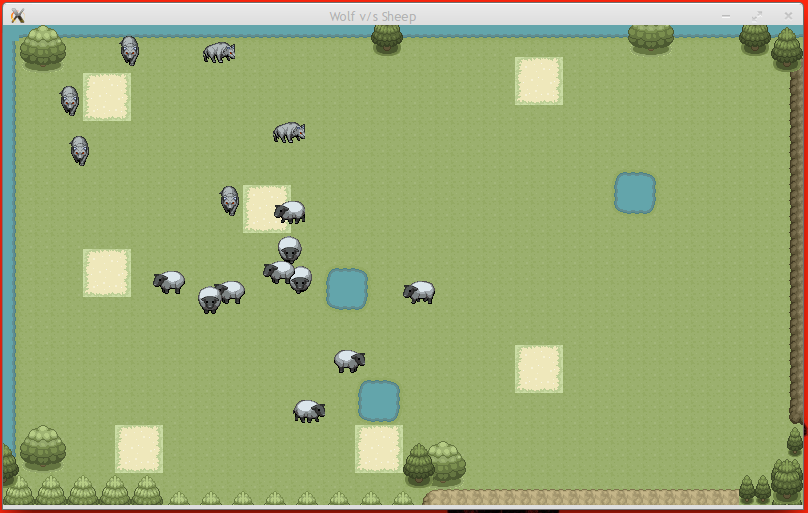
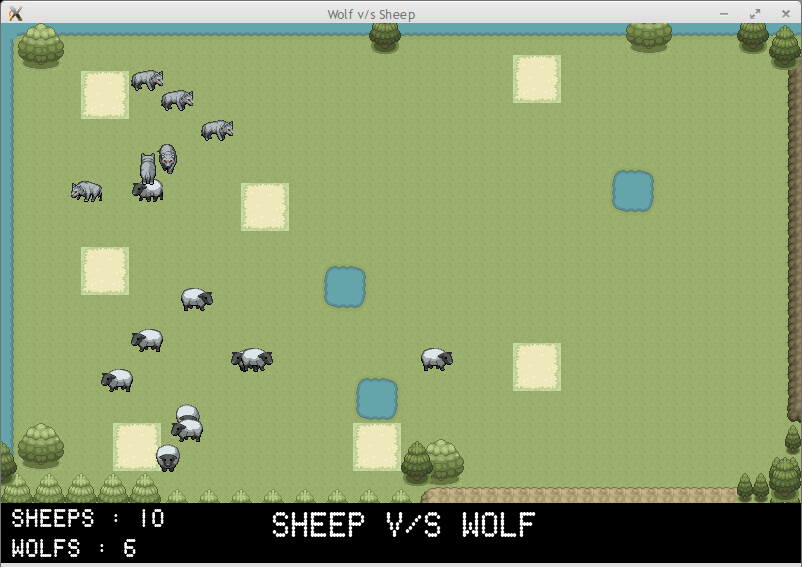
check collision for wolf, and game pause added

diff --git a/src/main.cpp b/src/main.cpp
@@ -8,6 +8,7 @@
 #include "wolf.cpp"
 #include "map.cpp"
 #include "utils.hpp"
+
 int main()
 {
     srand ( time(NULL) );
@@ -23,7 +24,7 @@ int main()
     Sheep *sheep = new Sheep[NUM_SHEEP]; /* num_sheep are in config.hpp*/
     Wolf *wolf = new Wolf[NUM_WOLF]; /* num_wolf are in config.hpp*/
     Utils *utils;
-    //bool game_pause = false;
+    bool game_pause = false;
 
     sf::Font font;
     if (!font.loadFromFile("../fonts/scoreboard.ttf"))
@@ -67,7 +68,8 @@ int main()
                         }
                         if(Event.key.code == sf::Keyboard::Space)
                         {
-                            //game_pause = true;  
+                            /* if(game_pause==true){ game_pause=false; }else { game_pause=true }    */
+                            game_pause = (game_pause) ? false : true;
                             break; 
                         }
                 default:
@@ -75,39 +77,46 @@ int main()
             } /* switch(Event.type) */
         } /* while(Window.pollEvent(Event)) */
 
-        Window.clear();            
-        Window.draw( map->getBackground() ); /* draw background */
+        if(!game_pause)
+        {
+            Window.clear();            
+            Window.draw( map->getBackground() ); /* draw background */
         
-        live_sheeps = 0;  
-        live_wolfs = 0;
-        for (int i=0; i<NUM_SHEEP; ++i){
-            mov=rand()%4; 
-            sheep[i].move( mov ); /* create a random number for movement of sheeps */
-            sheep[i].check_collisions( tilesize, mov , map); 
-            
-            if(sheep[i].getLife())  
-                live_sheeps++;   /* counter of sheeps */
+            live_sheeps = 0;  
+            live_wolfs = 0;
+            for (int i=0; i<NUM_SHEEP; ++i){
+                mov=rand()%4; 
+                sheep[i].move( mov ); /* create a random number for movement of sheeps */
+                sheep[i].check_collisions( tilesize, mov , map ); 
+                
+                if(sheep[i].getLife())  
+                    live_sheeps++;   /* counter of sheeps */
 
-            Window.draw( sheep[i].getSprite() ); /* draw sheeps */
-        }
+                Window.draw( sheep[i].getSprite() ); /* draw sheeps */
+            }
 
-        for (int i=0; i<NUM_WOLF; ++i){
-            wolf[i].move( rand()%4 ); /* create a random number for movement of wolfs */
-            wolf[i].check_collisions(); 
+            for (int i=0; i<NUM_WOLF; ++i){
+                mov=rand()%4;
+                wolf[i].move( mov ); /* create a random number for movement of wolfs */
+                wolf[i].check_collisions( tilesize, mov , map ); 
 
-            if(wolf[i].getLife())  
-                live_wolfs++;   /* counter of wolfs */
+                if(wolf[i].getLife())  
+                    live_wolfs++;   /* counter of wolfs */
 
-            Window.draw( wolf[i].getSprite() ); /* draw wolfs */
-        }
+                Window.draw( wolf[i].getSprite() ); /* draw wolfs */
+            }
 
-        textWolfs.setString("Wolfs : "+ utils->int2Str(live_wolfs) );
-        textSheeps.setString("Sheeps : "+ utils->int2Str(live_sheeps) ); 
-
-        Window.draw(textTitle);
-        Window.draw(textSheeps);
-        Window.draw(textWolfs);
+            textWolfs.setString("Wolfs : "+ utils->int2Str(live_wolfs) );
+            textSheeps.setString("Sheeps : "+ utils->int2Str(live_sheeps) ); 
+           
+            Window.draw(textTitle);
+            Window.draw(textSheeps);
+            Window.draw(textWolfs);
+        
+        } /* if(!game_pause)  */
+        
         Window.display();
         
     } /* game loop */
+        
 } /* main */

diff --git a/src/wolf.cpp b/src/wolf.cpp
@@ -11,7 +11,6 @@ Wolf::Wolf()
     this->life = true;
     this->source.x=4;
     this->source.y=1;
-
 }
 
 Wolf::~Wolf()
@@ -20,10 +19,17 @@ Wolf::~Wolf()
     //delete sprite;
 }
 
-sf::Sprite Wolf::getSprite() {
+sf::Sprite Wolf::getSprite() 
+{
     return this->sprite;
 }
 
+sf::Vector2i Wolf::getPosition()
+{
+	this->position.x = this->sprite.getPosition().x;
+	this->position.y = this->sprite.getPosition().y;
+	return this->position;
+}
 
 void Wolf::move ( int mov ){
 	const int texture_size_x = texture.getSize().x; /*  image.x / 2 => contains sheeps and wolf*/
@@ -50,24 +56,56 @@ void Wolf::move ( int mov ){
         this->sprite.move(0,-10);
 		break;
 	}
+	hunger-=4;
 }
 
 
-void Wolf::check_collisions(){
-	int pos_x = this->sprite.getPosition().x;
-	int pos_y = this->sprite.getPosition().y;
-	
-	if ( pos_x < 0.0f ) {	/* left position of screen */
- 		this->sprite.move(10,0); /* move right */	 
-	}
-	else if ( pos_x > SCREEN_WIDTH-SPRITE_SIZE ) {	/* right position of screen */
-		this->sprite.move(-10,0); /* move left */
-	}
-	if ( pos_y < 0.0f ) {	/* up position of screen */
-		this->sprite.move(0,10); /* move down */
-	}
-	else if ( pos_y > SCREEN_HEIGHT-SPRITE_SIZE ) {	/* down position of screen */
-		this->sprite.move(0,-10); /* move up */
+void Wolf::check_collisions( const int tilesize , int mov , Map *map){
+	const int texture_size_x = texture.getSize().x/2; /*  image.x / 2 => contains sheeps and wolf*/
+
+	this->position.x = this->sprite.getPosition().x;
+	this->position.y = this->sprite.getPosition().y;
+
+/*	
+			____________	
+ (x1,y1)>	|			|	<(x2,y1)
+			|	image	|
+			|			|
+			|			|
+ (x1,y2)>	-------------	<(x2,y2)
+*/
+
+	int x1 = (this->position.x + 5) / tilesize;  /* posx + 5 for better collision   */
+	int y1 = (this->position.y + 5) / tilesize;
+	int x2 = (this->position.x + 32 - 5) / tilesize;
+	int y2 = (this->position.y + 32 - 5) / tilesize;
+
+	/*  map->isSolid(int x, int y) return true if the position is solid  */
+	if( map->isSolid( x1 , y1) || map->isSolid( x2 , y2) || map->isSolid( x2 , y1) || map->isSolid( x1 , y2) )
+	{
+
+		this->source.x++;
+		if( this->source.x*32 >= texture_size_x )
+			this->source.x=4;
+
+		switch(mov) { 
+		case 0:		/* if move down move up*/
+	       	this->sprite.setTextureRect( sf::IntRect(this->source.x*32, mov*32, 32, 32) );
+	       	this->sprite.move(0,-10);
+			break;	
+		case 1:		/* if move left move right*/
+	        this->sprite.setTextureRect( sf::IntRect(this->source.x*32, mov*32, 32, 32) );
+	        this->sprite.move(10,0);
+			break;	
+		case 2:		/* if move right move left*/
+	        this->sprite.setTextureRect( sf::IntRect(this->source.x*32, mov*32, 32, 32) );
+	        this->sprite.move(-10,0);
+			break;	
+		case 3:		/* if move up move down*/
+	        this->sprite.setTextureRect( sf::IntRect(this->source.x*32, mov*32, 32, 32) );
+	        this->sprite.move(0,10);
+			break;
+		}
 	}
 }
 

diff --git a/src/wolf.hpp b/src/wolf.hpp
@@ -4,6 +4,7 @@
 #include <SFML/Graphics.hpp>  
 #include <iostream> 
 #include "config.hpp"
+#include "map.hpp"
 
 class Wolf {
 	public:
@@ -11,12 +12,15 @@ class Wolf {
 		virtual ~Wolf();
 		sf::Sprite getSprite();  
 		void move(int mov);
-		void check_collisions();
+		void check_collisions( const int tilesize, int mov, Map *map );
+		sf::Vector2i getPosition();
 		inline bool getLife(){ return this-life; };
 	private:	
 		sf::Texture texture;
 		sf::Sprite sprite;
-		sf::Vector2i source;
+		sf::Vector2i source;	/* obtain the position of wolf on the sprite */
+		sf::Vector2i position;
+		int hunger;
 		bool life;
 
 };

diff --git a/src/sheep.cpp b/src/sheep.cpp
@@ -31,7 +31,6 @@ sf::Vector2i Sheep::getPosition()
 	return this->position;
 }
 
-
 void Sheep::move ( int mov ){
 	const int texture_size_x = texture.getSize().x/2; /*  image.x / 2 => contains sheeps and wolf*/
 

diff --git a/src/sheep.hpp b/src/sheep.hpp
@@ -6,7 +6,6 @@
 #include "config.hpp"
 #include "map.hpp"
 
-
 class Sheep{
 	public:
 		Sheep();
